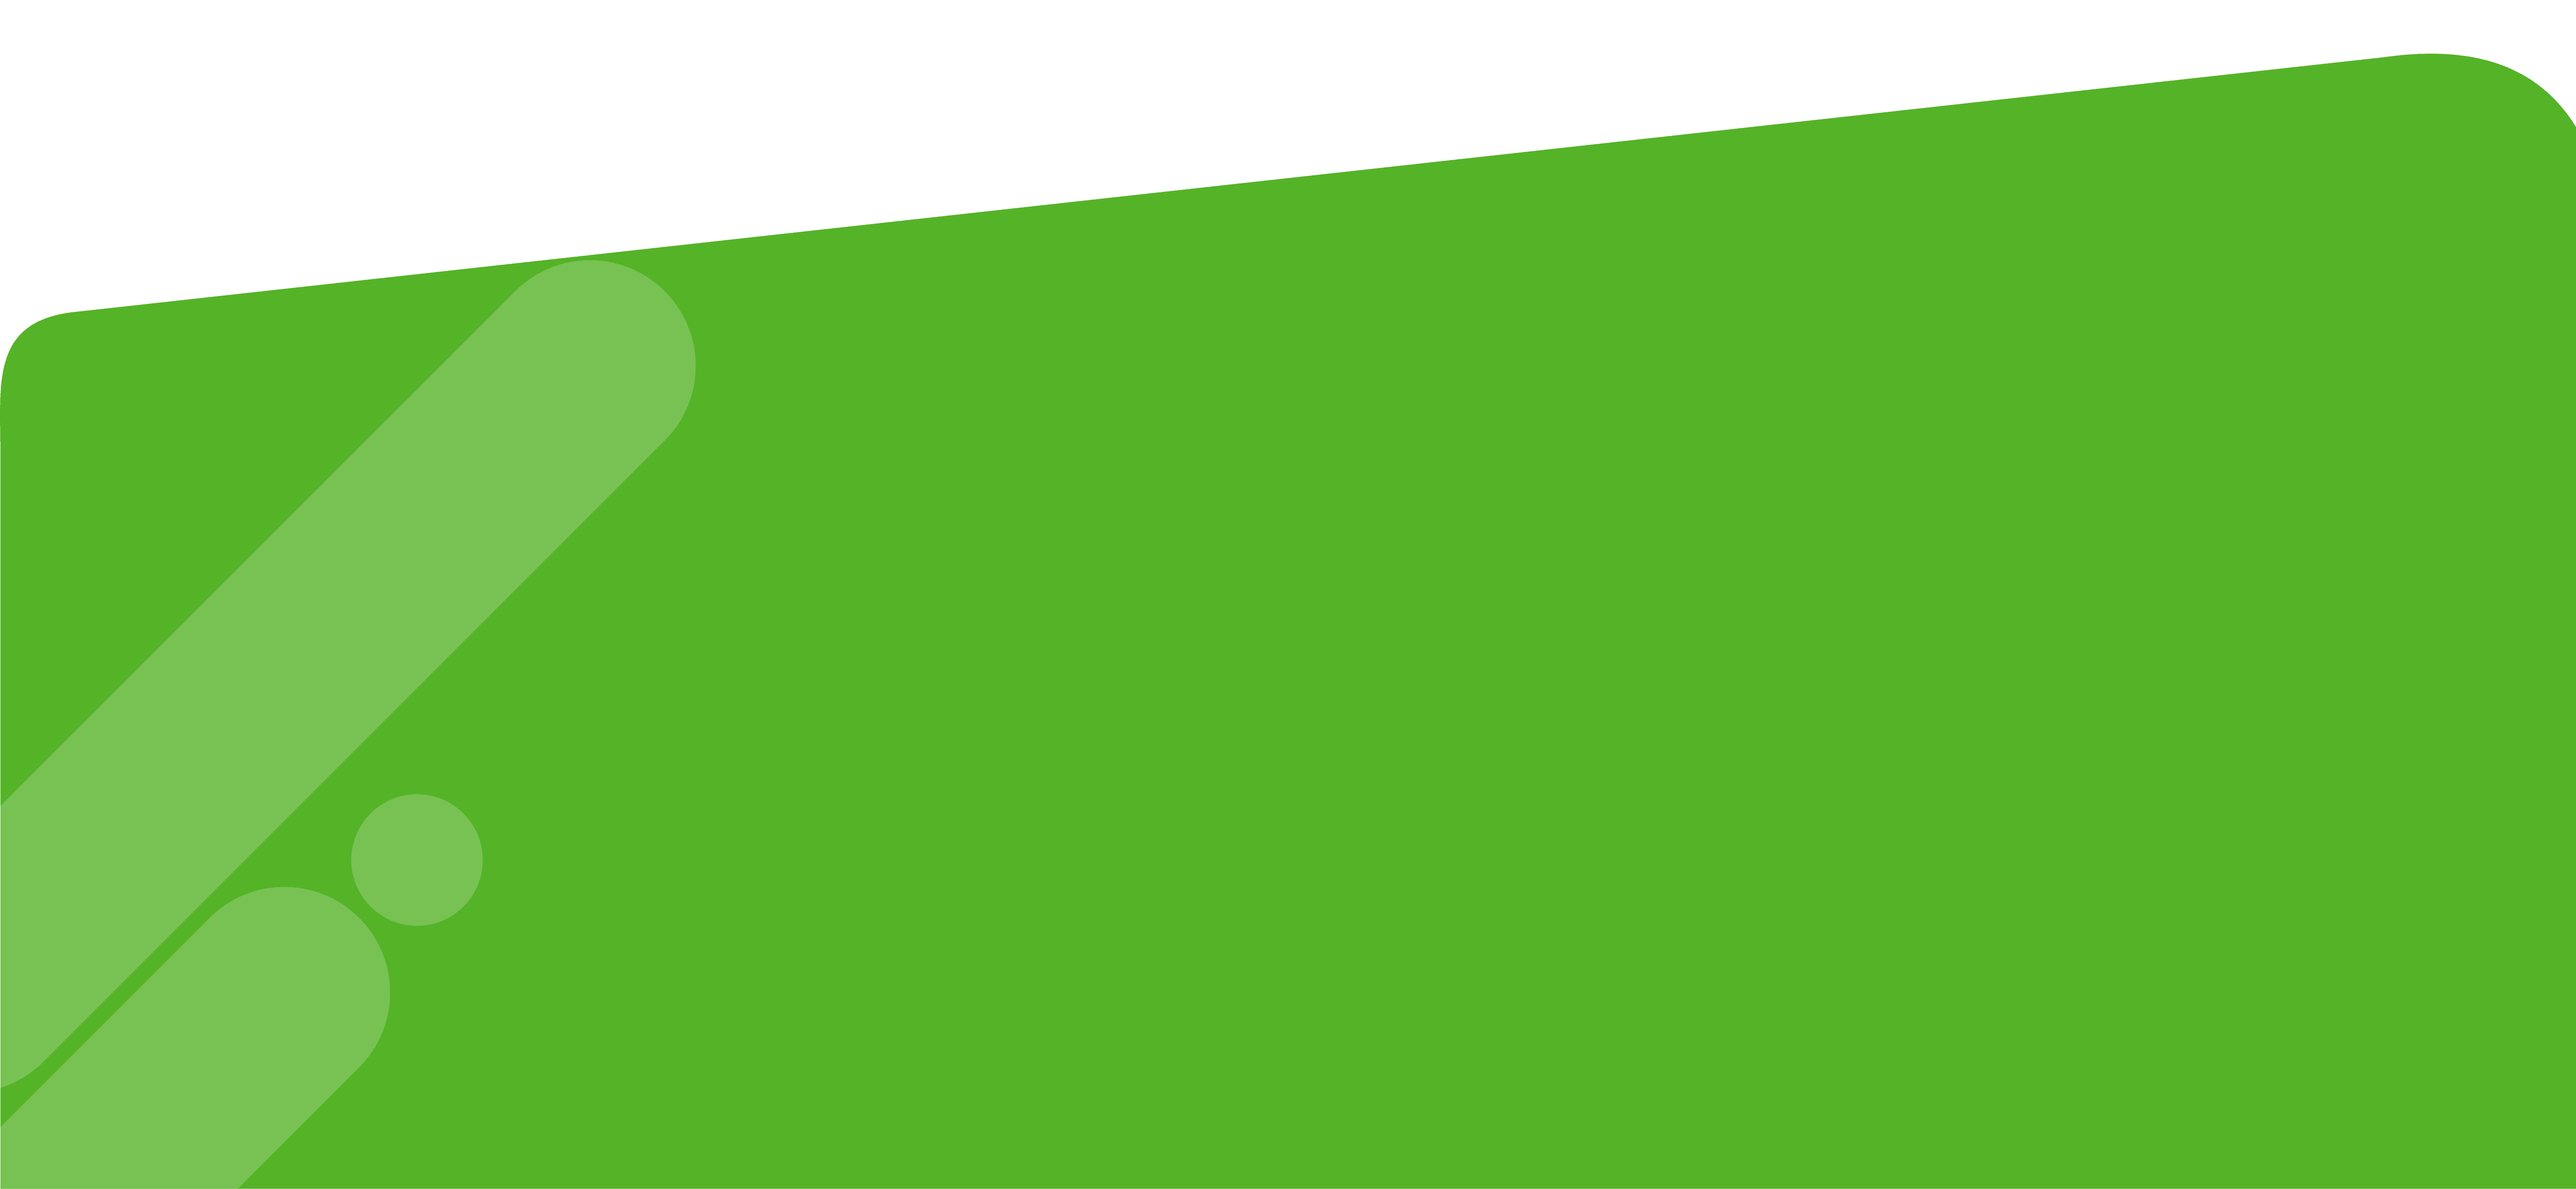
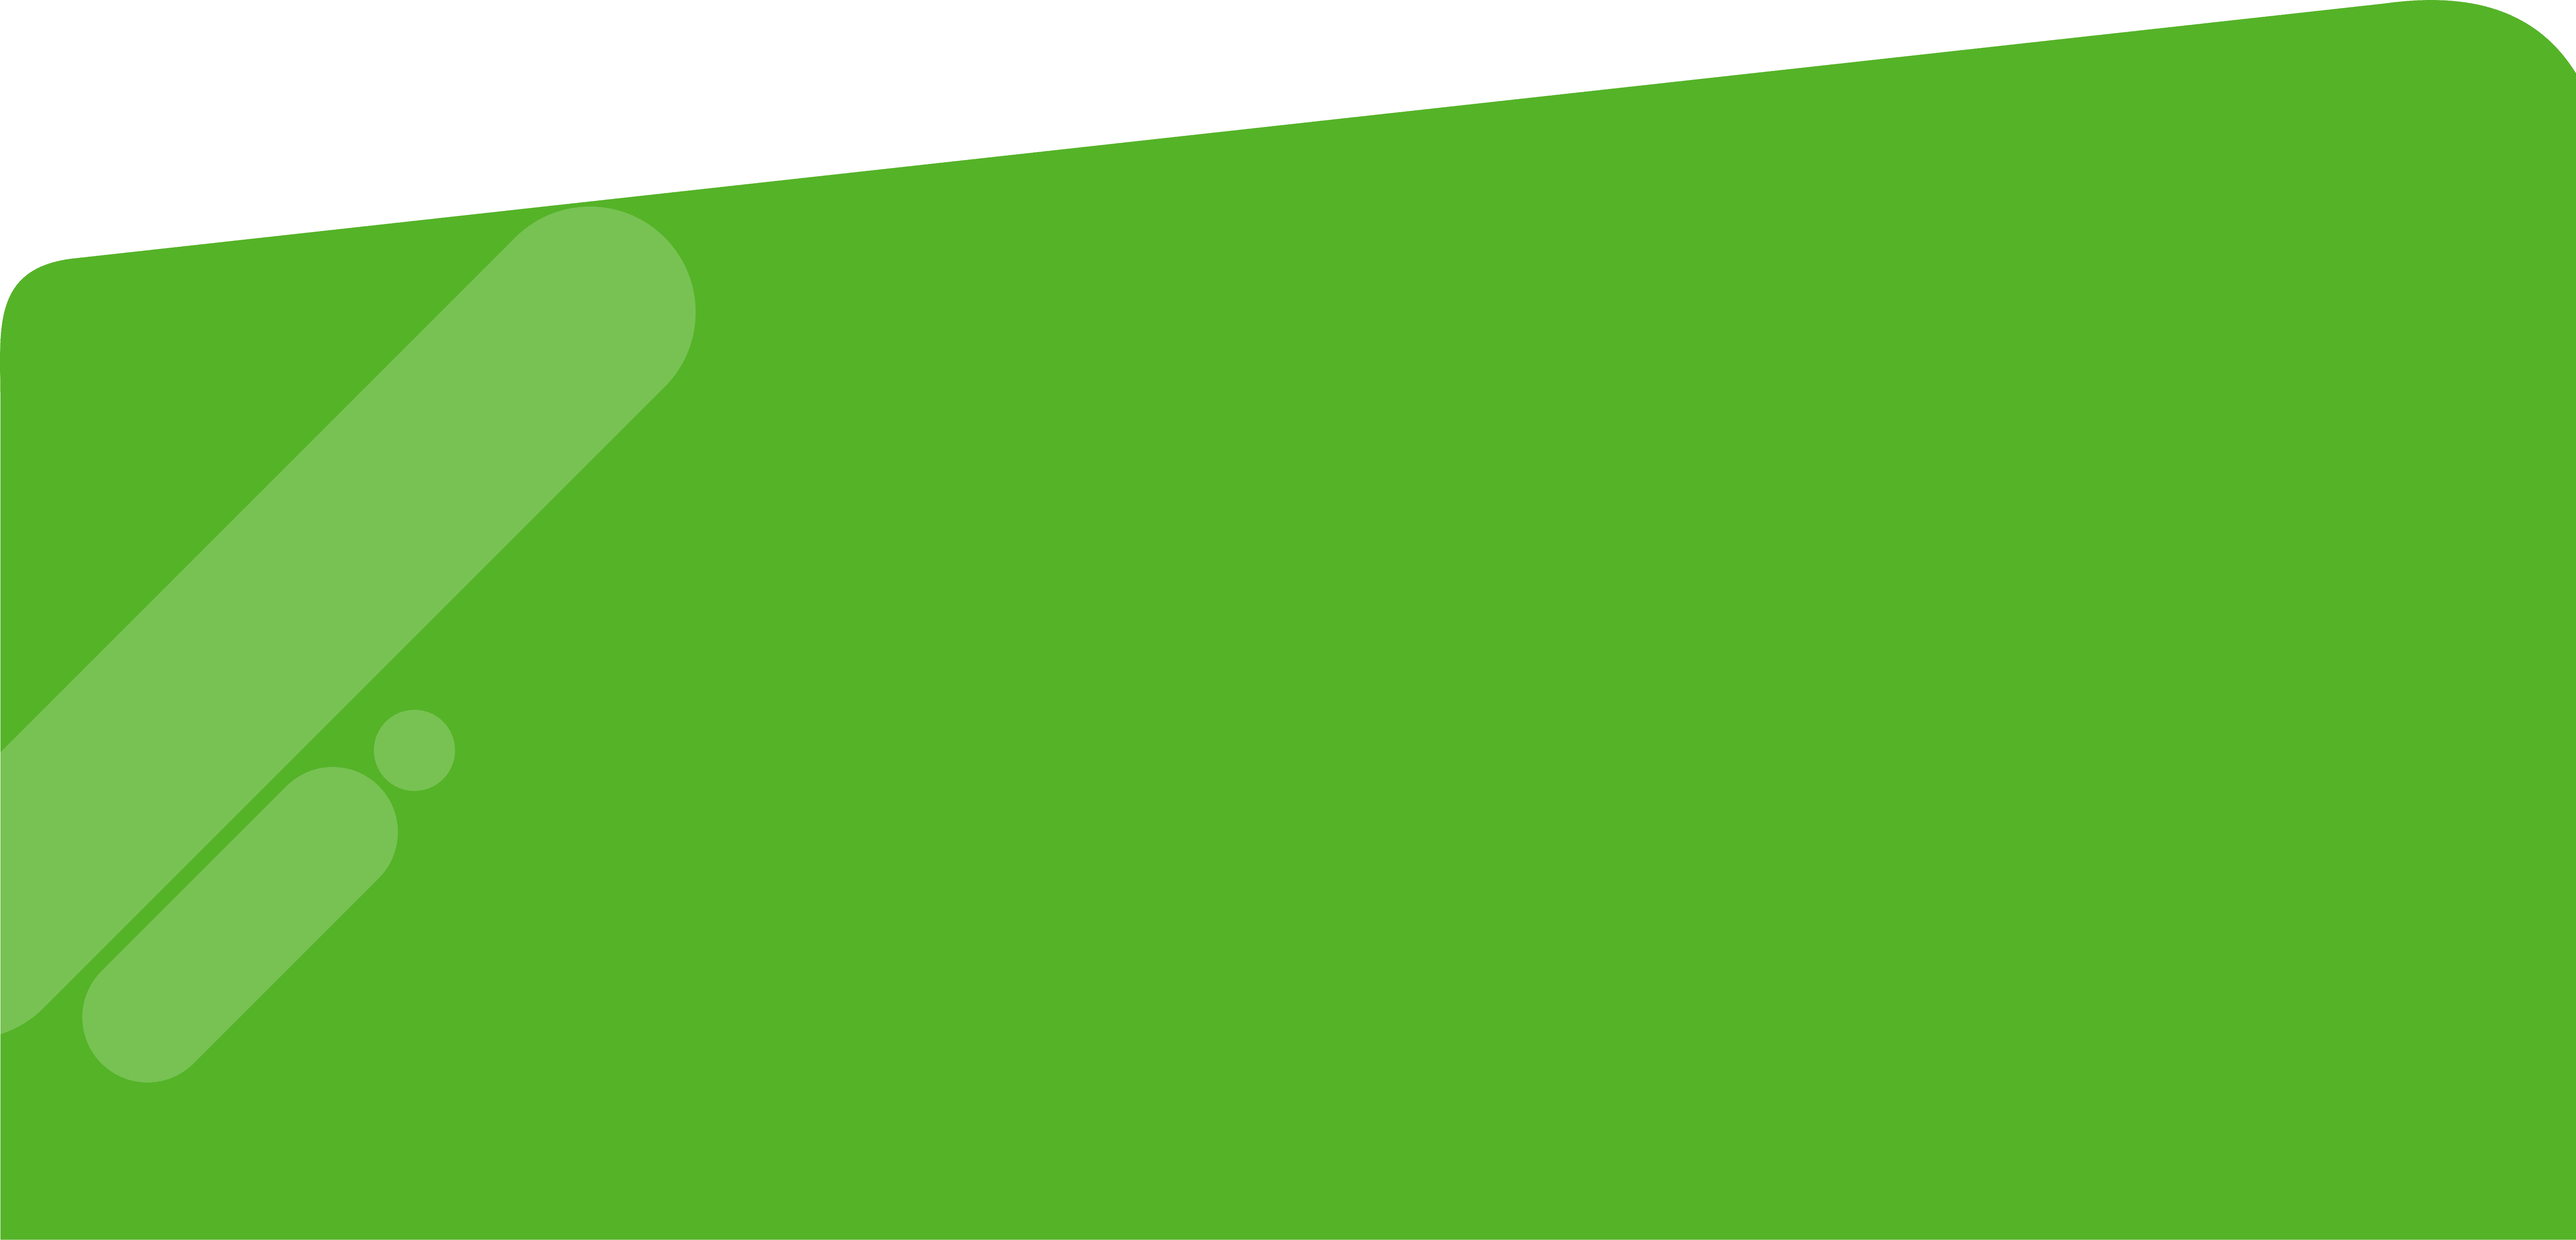
[Fix] layout, bg-footer

Changed region(s): [[0.0, 0.0, 1.0, 1.0]]

diff --git a/pages/aboutus/index.tsx b/pages/aboutus/index.tsx
@@ -41,8 +41,14 @@ const index = (props: Props) => {
           <div className="w-1/2">
             <AboutUsCard />
           </div>
-          <div className="w-1/2 flex items-center justify-center">
-            <Image src={ManWithLaptop} alt="" width={400} height={400} />
+          <div className="w-1/2 h-96 flex items-center justify-center">
+            <Image
+              src={ManWithLaptop}
+              alt=""
+              width={400}
+              height={400}
+              className="w-3/4 h-auto"
+            />
           </div>
         </div>
         <div className="flex">
@@ -59,12 +65,19 @@ const index = (props: Props) => {
         </div>
       </div>
       <div className="bg-aboutusfooter bg-contain bg-bottom h-[800px] w-full relative bg-no-repeat flex">
-        <div className="w-80 h-full absolute left-[8%] top-[14%]">
-          <Image src={Happyman} alt="" width={300} height={300} priority />
+        <div className="w-80 h-full absolute left-[16%]">
+          <Image
+            src={Happyman}
+            alt=""
+            width={300}
+            height={300}
+            priority
+            className="w-full h-auto"
+          />
         </div>
-        <div className="flex justify-end w-full items-center mr-20">
-          <div className="w-3/5 h-96 lg:mt-40 flex flex-col justify-center">
-            <div className="text-[48px] font-QuicksandBold tracking-normal leading-[48px] text-mv-primary-2 text-center">
+        <div className="flex justify-end w-full pb-64 pr-8">
+          <div className="w-3/5 h-3/4 lg:mt-40 flex flex-col justify-center">
+            <div className="text-[64px] font-QuicksandBold tracking-normal leading-[48px] text-mv-primary-2 text-center my-8">
               What we stand for
             </div>
             <div className="flex gap-2">

diff --git a/components/molecules/AboutUsCardFooter.tsx b/components/molecules/AboutUsCardFooter.tsx
@@ -15,7 +15,7 @@ const AboutUsCardFooter = ({ title, paragraph, image }: Props) => {
       <div className="bg-[#62CE2E] rounded-2xl w-16 h-16 flex items-center justify-center p-6 mt-12">
         <Image src={image} alt="" width={100} height={100} className="lg:w-[20px] w-[20px]"/>
       </div>
-      <div className="text-[48px] font-QuicksandBold tracking-normal leading-[48px] text-center">
+      <div className="text-[40px] font-QuicksandBold tracking-normal leading-[48px] text-center">
         {title}
       </div>
       <Paragraph text={paragraph} />
